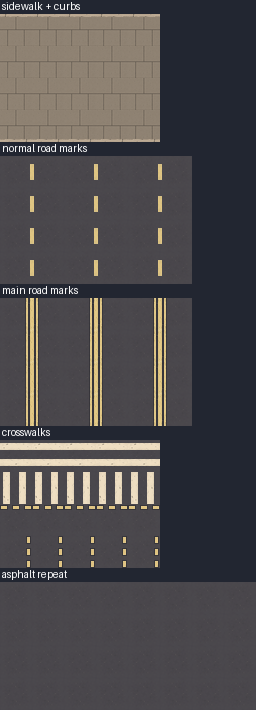
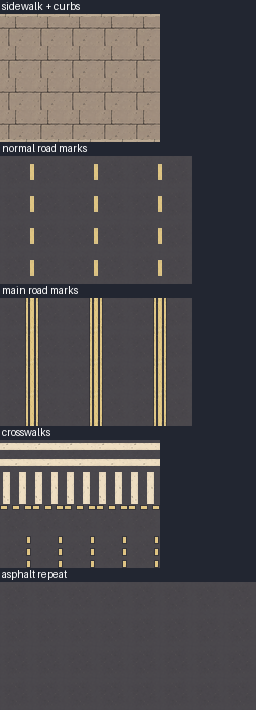
Select shared sidewalk floor authority
Use the selected sidewalk floor source revision for both the normal texture resolver and the engine-composed sidewalk base.\n\nFreeze the selected PNG and paired SVG authority in the layered-ground recipe, rebuild the curb and damage review composites over that floor, and retain the quiet-square neighbor review with its registered artwork unchanged.\n\nVerified byte-identical frozen rebuilds, explicit installation guards, component-contract stability, texture import and boot, and lint.

Changed region(s): [[0.0, 0.031, 0.625, 0.1859]]

diff --git a/docs/evidence/layered-ground-2026-09-12/assemble.py b/docs/evidence/layered-ground-2026-09-12/assemble.py
@@ -27,6 +27,9 @@ RUNTIME_DIR = ROOT / "assets/illustrated/svg-transfer/tiles"
 SVG_RENDER_DIR = ROOT / "docs/evidence/style-transfer-tiles-2026-09-12/source"
 ASPHALT_OFFSETS = ((0, 0), (16, 16), (8, 24), (24, 8))
 ACCEPTED_DAMAGE_SOURCE_REVISION = "83a60d1522574714ce038dff3a607a536d800614"
+SELECTED_SIDEWALK_SOURCE_REVISION = "62d1c344dccbf77e7cb8052ea09b337a76ce994e"
+SELECTED_SIDEWALK_PNG_BLOB = "af36579547f3f1795a7549c4f3227a2a9e9f58db"
+SELECTED_SIDEWALK_SVG_BLOB = "0d947890561585aacb1ac69196a3ebc9e10874d1"
 
 
 @dataclass(frozen=True)
@@ -410,17 +413,31 @@ def build(output_dir: Path, input_bundle: Path | None = None) -> None:
 	else:
 		inputs: dict[str, dict[str, str]] = {}
 		for name in FROZEN_NAMES:
-			runtime_record = _copy_frozen(RUNTIME_DIR / f"{name}.png", frozen_runtime / f"{name}.png")
+			if name == "sidewalk":
+				runtime_record = _frozen_git_file(
+					SELECTED_SIDEWALK_SOURCE_REVISION,
+					"assets/illustrated/svg-transfer/tiles/sidewalk.png",
+					frozen_runtime / "sidewalk.png",
+				)
+			else:
+				runtime_record = _copy_frozen(RUNTIME_DIR / f"{name}.png", frozen_runtime / f"{name}.png")
 			runtime_record["frozen_path"] = str((frozen_runtime / f"{name}.png").relative_to(output_dir))
 			inputs[f"runtime-target:{name}"] = runtime_record
 			if name in DAMAGE:
 				record = _frozen_git_file(ACCEPTED_DAMAGE_SOURCE_REVISION, f"assets/illustrated/svg-transfer/tiles/{name}.png", frozen_tiles / f"{name}.png")
+			elif name == "sidewalk":
+				record = _frozen_git_file(
+					SELECTED_SIDEWALK_SOURCE_REVISION,
+					"assets/illustrated/svg-transfer/tiles/sidewalk.png",
+					frozen_tiles / "sidewalk.png",
+				)
 			else:
 				record = _copy_frozen(RUNTIME_DIR / f"{name}.png", frozen_tiles / f"{name}.png")
 			record["frozen_path"] = str((frozen_tiles / f"{name}.png").relative_to(output_dir))
 			inputs[(f"accepted-damage:{name}" if name in DAMAGE else f"tile:{name}")] = record
 		for surface in ("sidewalk", "road", "alley"):
-			record = _frozen_git_file(ACCEPTED_DAMAGE_SOURCE_REVISION, f"assets/illustrated/svg-transfer/tiles/{surface}.png", accepted_surface_bases / f"{surface}.png")
+			revision = SELECTED_SIDEWALK_SOURCE_REVISION if surface == "sidewalk" else ACCEPTED_DAMAGE_SOURCE_REVISION
+			record = _frozen_git_file(revision, f"assets/illustrated/svg-transfer/tiles/{surface}.png", accepted_surface_bases / f"{surface}.png")
 			record["frozen_path"] = str((accepted_surface_bases / f"{surface}.png").relative_to(output_dir))
 			inputs[f"accepted-surface-base:{surface}"] = record
 		for name in FROZEN_NAMES:
@@ -431,6 +448,13 @@ def build(output_dir: Path, input_bundle: Path | None = None) -> None:
 			inputs[f"svg-source:{name}"] = {"path": f"assets/tiles/{name}.svg", "sha256": _sha256(ROOT / f"assets/tiles/{name}.svg")}
 		for spec in LAYER_SPECS:
 			inputs[f"svg-source:{spec.name}"] = {"path": spec.source_svg, "sha256": _sha256(ROOT / spec.source_svg)}
+		inputs["selected-sidewalk-authority"] = {
+			"revision": SELECTED_SIDEWALK_SOURCE_REVISION,
+			"png_blob": SELECTED_SIDEWALK_PNG_BLOB,
+			"svg_blob": SELECTED_SIDEWALK_SVG_BLOB,
+			"png_sha256": _sha256(frozen_tiles / "sidewalk.png"),
+			"svg_sha256": _sha256(ROOT / "assets/tiles/sidewalk.svg"),
+		}
 
 	plain_sidewalk = _load(frozen_tiles / "sidewalk.png")
 	plain_alley = _load(frozen_tiles / "alley.png")
@@ -539,7 +563,12 @@ def build(output_dir: Path, input_bundle: Path | None = None) -> None:
 		"tile_size": [32, 32],
 		"inputs": inputs,
 		"bases": {
-			"sidewalk": {"frozen_input": "frozen-inputs/tiles/sidewalk.png", "sha256": _sha256(frozen_tiles / "sidewalk.png")},
+			"sidewalk": {
+				"frozen_input": "frozen-inputs/tiles/sidewalk.png",
+				"source_revision": SELECTED_SIDEWALK_SOURCE_REVISION,
+				"source_blob": SELECTED_SIDEWALK_PNG_BLOB,
+				"sha256": _sha256(frozen_tiles / "sidewalk.png"),
+			},
 			"alley": {"frozen_input": "frozen-inputs/tiles/alley.png", "sha256": _sha256(frozen_tiles / "alley.png")},
 			"asphalt": {
 				"frozen_input": "frozen-inputs/tiles/road.png", "method": "equal channel-wise mean of rotations 0,90,180,270",
@@ -680,6 +709,29 @@ def install_grass_base(bundle: Path, component_dir: Path, replace: bool) -> None
 	verify(bundle, component_dir)
 
 
+def install_sidewalk_floor(bundle: Path, component_dir: Path, replace: bool) -> None:
+	"""Replace the verified shared sidewalk floor in both runtime resolver locations."""
+	if not replace:
+		raise ValueError("sidewalk-floor replacement requires --replace")
+	verify(bundle, None)
+	manifest = _read_manifest(bundle)
+	if json.loads((component_dir / "manifest.json").read_text()) != _engine_contract(bundle):
+		raise ValueError("published engine manifest differs from the retained contract")
+	for name, expected in manifest["bases"].items():
+		filename = "asphalt_base.png" if name == "asphalt" else f"{name}_base.png"
+		if name != "sidewalk" and _sha256(component_dir / filename) != expected["sha256"]:
+			raise ValueError(f"published base differs: {filename}")
+	for name, expected in manifest["components"].items():
+		if _sha256(component_dir / f"{name}.png") != expected["sha256"]:
+			raise ValueError(f"published component differs: {name}")
+	selected = bundle / manifest["bases"]["sidewalk"]["frozen_input"]
+	if _sha256(selected) != manifest["bases"]["sidewalk"]["sha256"]:
+		raise ValueError("selected sidewalk floor differs from retained authority")
+	shutil.copyfile(selected, RUNTIME_DIR / "sidewalk.png")
+	shutil.copyfile(selected, component_dir / "sidewalk_base.png")
+	verify(bundle, component_dir)
+
+
 def main() -> None:
 	parser = argparse.ArgumentParser(description=__doc__)
 	subparsers = parser.add_subparsers(dest="command", required=True)
@@ -696,6 +748,10 @@ def main() -> None:
 	install_parser.add_argument("--bundle-dir", type=Path, required=True)
 	install_parser.add_argument("--component-dir", type=Path, required=True)
 	install_parser.add_argument("--replace", action="store_true")
+	sidewalk_parser = subparsers.add_parser("install-sidewalk-floor", help="replace the verified sidewalk floor in both runtime locations")
+	sidewalk_parser.add_argument("--bundle-dir", type=Path, required=True)
+	sidewalk_parser.add_argument("--component-dir", type=Path, required=True)
+	sidewalk_parser.add_argument("--replace", action="store_true")
 	arguments = parser.parse_args()
 	if arguments.command == "build":
 		build(arguments.output_dir.resolve(), arguments.input_bundle.resolve() if arguments.input_bundle else None)
@@ -703,8 +759,10 @@ def main() -> None:
 		verify(arguments.bundle_dir.resolve(), arguments.component_dir.resolve() if arguments.component_dir else None)
 	elif arguments.command == "publish":
 		publish(arguments.bundle_dir.resolve(), arguments.component_dir.resolve())
-	else:
+	elif arguments.command == "install-grass-base":
 		install_grass_base(arguments.bundle_dir.resolve(), arguments.component_dir.resolve(), arguments.replace)
+	else:
+		install_sidewalk_floor(arguments.bundle_dir.resolve(), arguments.component_dir.resolve(), arguments.replace)
 
 
 if __name__ == "__main__":

diff --git a/docs/evidence/layered-ground-2026-09-12/GENERATION.md b/docs/evidence/layered-ground-2026-09-12/GENERATION.md
@@ -17,8 +17,10 @@ docs/evidence/layered-ground-2026-09-12/assemble.py verify \
 ```
 
 The frozen inputs record accepted-damage source revision
-83a60d1522574714ce038dff3a607a536d800614, tile inputs, SVG renders, source-SVG hashes, the
-assembly script hash, and Pillow version.
+83a60d1522574714ce038dff3a607a536d800614, the selected sidewalk-floor authority revision
+62d1c344dccbf77e7cb8052ea09b337a76ce994e, tile inputs, SVG renders, source-SVG hashes, the
+assembly script hash, and Pillow version. The selected floor PNG and the paired
+`assets/tiles/sidewalk.svg` source are recorded with their source blobs and retained SHA-256 values.
 
 To reproduce a retained bundle without reading mutable tile assets, use its frozen inputs with the
 same assembly script, then compare the two bundle trees:
@@ -65,6 +67,15 @@ published base, transparent component, and the engine contract:
 
 ```sh
 uv run python docs/evidence/layered-ground-2026-09-12/assemble.py install-grass-base \
+--bundle-dir /tmp/layered-ground-build \
+--component-dir assets/illustrated/svg-transfer/tiles/layers --replace
+```
+
+To replace the shared sidewalk floor in both the engine layer directory and the normal texture
+resolver, preserving every other base, transparent component, and the engine contract:
+
+```sh
+uv run python docs/evidence/layered-ground-2026-09-12/assemble.py install-sidewalk-floor \
 --bundle-dir /tmp/layered-ground-build \
 --component-dir assets/illustrated/svg-transfer/tiles/layers --replace
 ```
